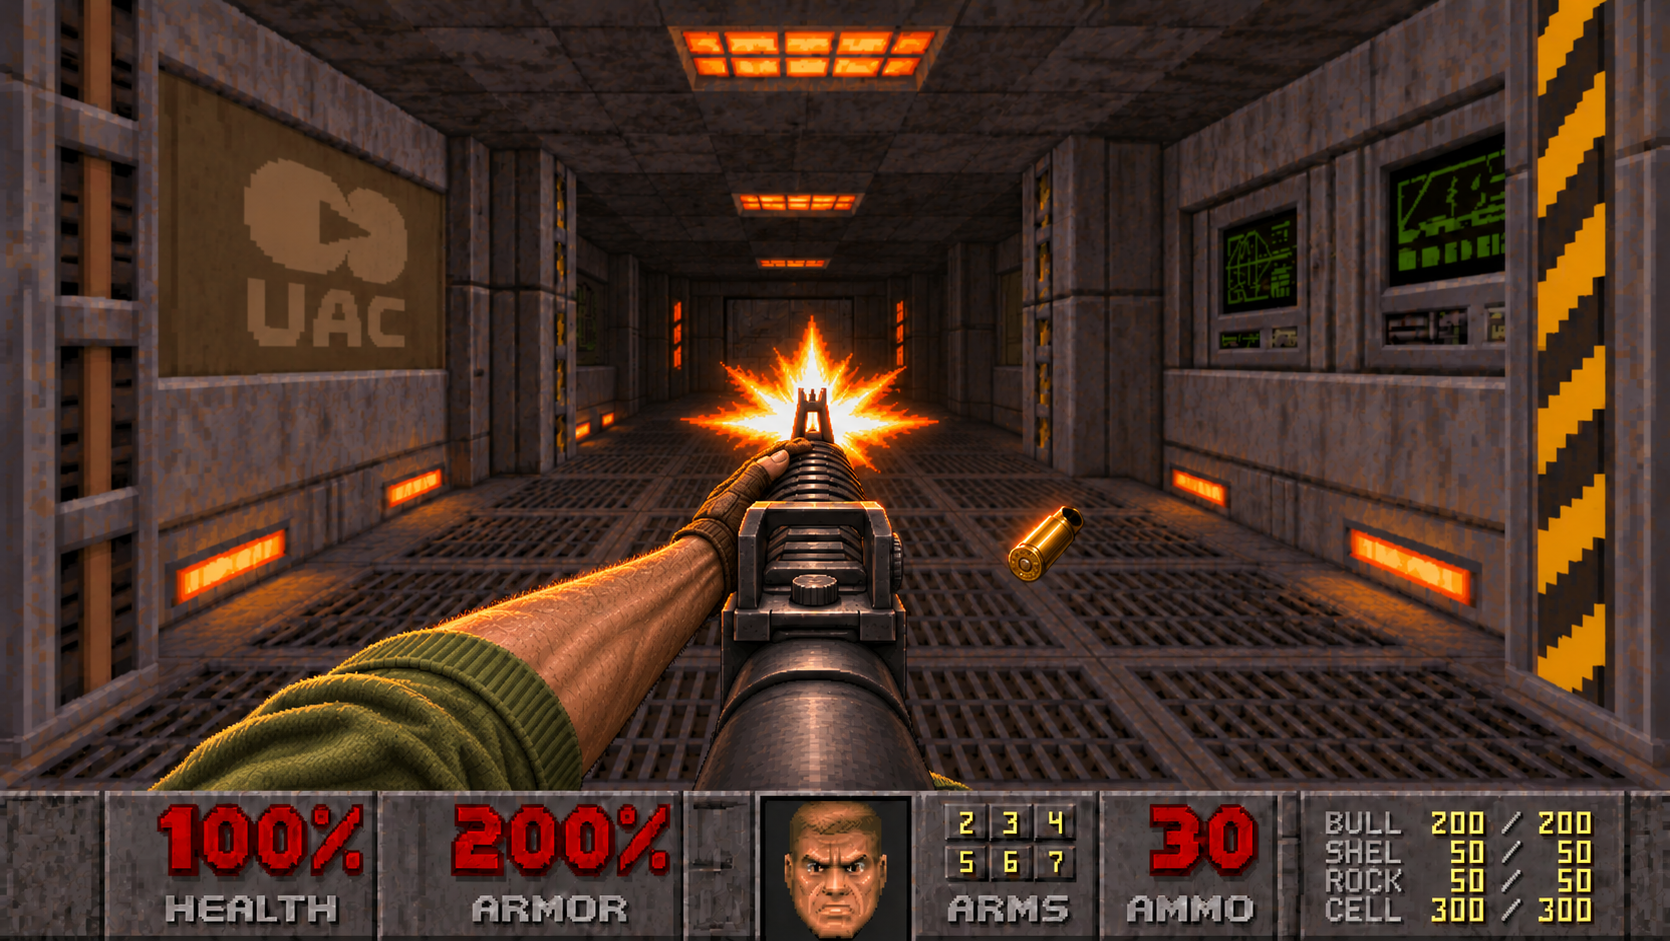
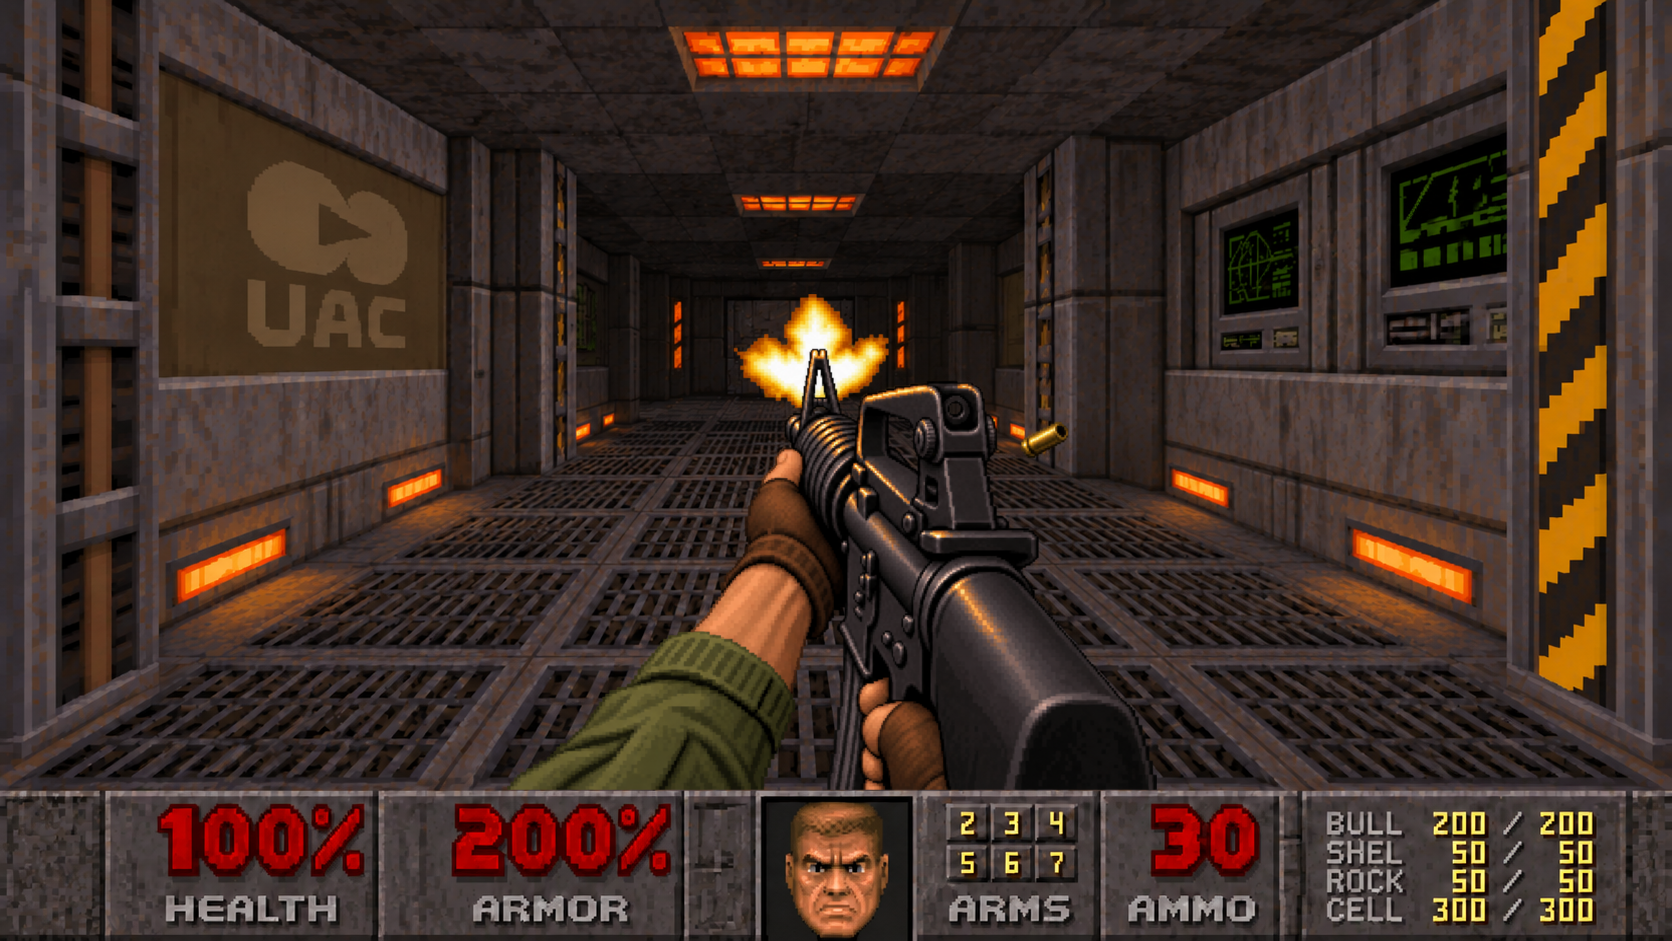
EOD 0.8.23: new shouldered firing pose art for the Carbine

diff --git a/EOD/editor.html b/EOD/editor.html
@@ -197,7 +197,7 @@ a.brand{color:var(--text);text-decoration:none}
 <script id="nsde-main">
 'use strict';
 /* EOD · Editor of Doom (engine from No Shit Doom Editor) — Pulse Labs Studio */
-const VERSION = '0.8.22', VC = 42;
+const VERSION = '0.8.23', VC = 43;
 const ORIGINAL_HTML = '<!DOCTYPE html>\n' + document.documentElement.outerHTML;
 const $ = s => document.querySelector(s);
 const clamp = (v, a, b) => v < a ? a : v > b ? b : v;

diff --git a/EOD/engine/src/01_core.js b/EOD/engine/src/01_core.js
@@ -1,6 +1,6 @@
 'use strict';
 /* EOD · Editor of Doom (engine from No Shit Doom Editor) — Pulse Labs Studio */
-const VERSION = '0.8.22', VC = 42;
+const VERSION = '0.8.23', VC = 43;
 const ORIGINAL_HTML = '<!DOCTYPE html>\n' + document.documentElement.outerHTML;
 const $ = s => document.querySelector(s);
 const clamp = (v, a, b) => v < a ? a : v > b ? b : v;

diff --git a/EOD/assets/config.js b/EOD/assets/config.js
@@ -6,5 +6,5 @@ window.EOD_CONFIG = {
   SUPABASE_URL: '',
   SUPABASE_ANON_KEY: '',
   SITE_NAME: 'EOD · Editor of Doom',
-  VERSION: '0.8.22'
+  VERSION: '0.8.23'
 };

diff --git a/EOD/docs/CHANGELOG.md b/EOD/docs/CHANGELOG.md
@@ -10,6 +10,10 @@
 - Built-in node builder so exported WADs also run in Chrome/Chocolate Doom
 - Everything queued for the engine in No Shit Doom Editor (curve/grid drawing, blockmap speed-up, grates)
 
+## v0.8.23 (vc43) — 2026-11-22 — the Carbine's new shouldered firing pose
+- **New firing pose art:** the shouldered Carbine is now the same rifle as the carry pose (carry handle, ribbed handguard, both hands on it), centered, with the painted flash and a casing; the earlier centered painting was a different-looking gun. The aiming frame (no flash) keeps the front sight and carry handle this time.
+- Why: James sent GPT's redo of the firing pose: "this is better".
+
 ## v0.8.22 (vc42) — 2026-11-22 — UAC Corridor: you can reach the exit
 - **Fixed: the raised back half of the hall was a dead end.** It was 32 units up in one go; the player can only step up 24. There's now a deep step halfway (16, then 32), so you can walk up to the exit switch.
 - Swept the other demo maps with a reachability check (walk the sectors from the start using the same step and headroom rules, doors and tagged lifts counted open): every exit is reachable.

diff --git a/EOD/docs/PROJECT_OVERVIEW.md b/EOD/docs/PROJECT_OVERVIEW.md
@@ -1,6 +1,6 @@
 # EOD · Editor of Doom — Project Overview
 
-**Owner:** Pulse Labs Studio · **Version:** 0.8.22 · **Started:** 2026-11-16 · **Repo:** `editor-of-doom` (GitHub Pages)
+**Owner:** Pulse Labs Studio · **Version:** 0.8.23 · **Started:** 2026-11-16 · **Repo:** `editor-of-doom` (GitHub Pages)
 
 ## Goal
 A free, open web home for classic Doom mapping: an editor that feels like Ultimate Doom Builder, one-tap play on any device and input (touch, keyboard+mouse, Xbox/standard controllers), and a community map library + forums. Nothing like this existed when we checked (Nov 2026): DoomScroll plays WADs in a browser but has no editor or accounts; web editors (JZBuilder, WAD.js) are prototypes; SnapMap (Doom 2016) had the share/remix loop but only inside that game.

diff --git a/EOD/docs/HISTORY.md b/EOD/docs/HISTORY.md
@@ -118,3 +118,4 @@ The story of how EOD came to be, in the owner's words where possible.
 - James sent the closing frame (in the corridor, plus a larger copy on white) → 0.8.20: the Coach Gun is painted end to end.
 - James corrected the Carbine: *"no, when he fires it moves into his chest centerd, that anlg eis the walking animation"* → 0.8.21: carry pose while walking, shouldered center pose while firing.
 - James, at the end of UAC Corridor with every monster dead: *"i cant advance any further and wtf is that skull thing in a baloon doing?"* → 0.8.22: the 32-unit ledge got a step; the skull in a bubble is Freedoom's Soulsphere.
+- James sent a redone centered firing frame for the Carbine (same rifle as the carry pose): *"this is better"* → 0.8.23.

diff --git a/docs/CHANGELOG.md b/docs/CHANGELOG.md
@@ -1,5 +1,8 @@
 # Changelog
 
+## v0.7.43 — 2026-11-22
+- EOD 0.8.23: new shouldered firing pose art for the Carbine.
+
 ## v0.7.42 — 2026-11-22
 - EOD 0.8.22: UAC Corridor's raised hall platform gets a step so the exit can be reached.
 
